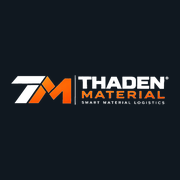
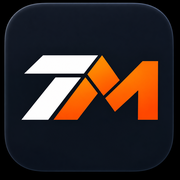
Add files via upload

diff --git a/sw.js b/sw.js
@@ -1,4 +1,4 @@
-const CACHE='thaden-material-v68';
+const CACHE='thaden-material-v69';
 const ASSETS=['./','./index.html','./manifest.webmanifest','./thaden-logo.png','./thaden-logo-pdf.png','./icon-180.png','./icon-192.png','./icon-512.png'];
 self.addEventListener('install',e=>e.waitUntil(caches.open(CACHE).then(c=>c.addAll(ASSETS)).then(()=>self.skipWaiting())));
 self.addEventListener('activate',e=>e.waitUntil(caches.keys().then(keys=>Promise.all(keys.filter(k=>k!==CACHE).map(k=>caches.delete(k)))).then(()=>self.clients.claim())));

diff --git a/index.html b/index.html
@@ -4,6 +4,8 @@
 <meta charset="utf-8">
 <meta name="viewport" content="width=device-width,initial-scale=1,viewport-fit=cover">
 <meta name="theme-color" content="#101820">
+<link rel="apple-touch-icon" sizes="180x180" href="./icon-180.png">
+<link rel="icon" type="image/png" sizes="192x192" href="./icon-192.png">
 <title>THADEN MATERIAL</title>
 <style>
 :root{--navy:#101820;--orange:#ff6b00;--orange2:#ff7a00;--bg:#f3f5f7;--card:#fff;--text:#16232d;--muted:#697680;--green:#159b60;--border:#d8dee3}
